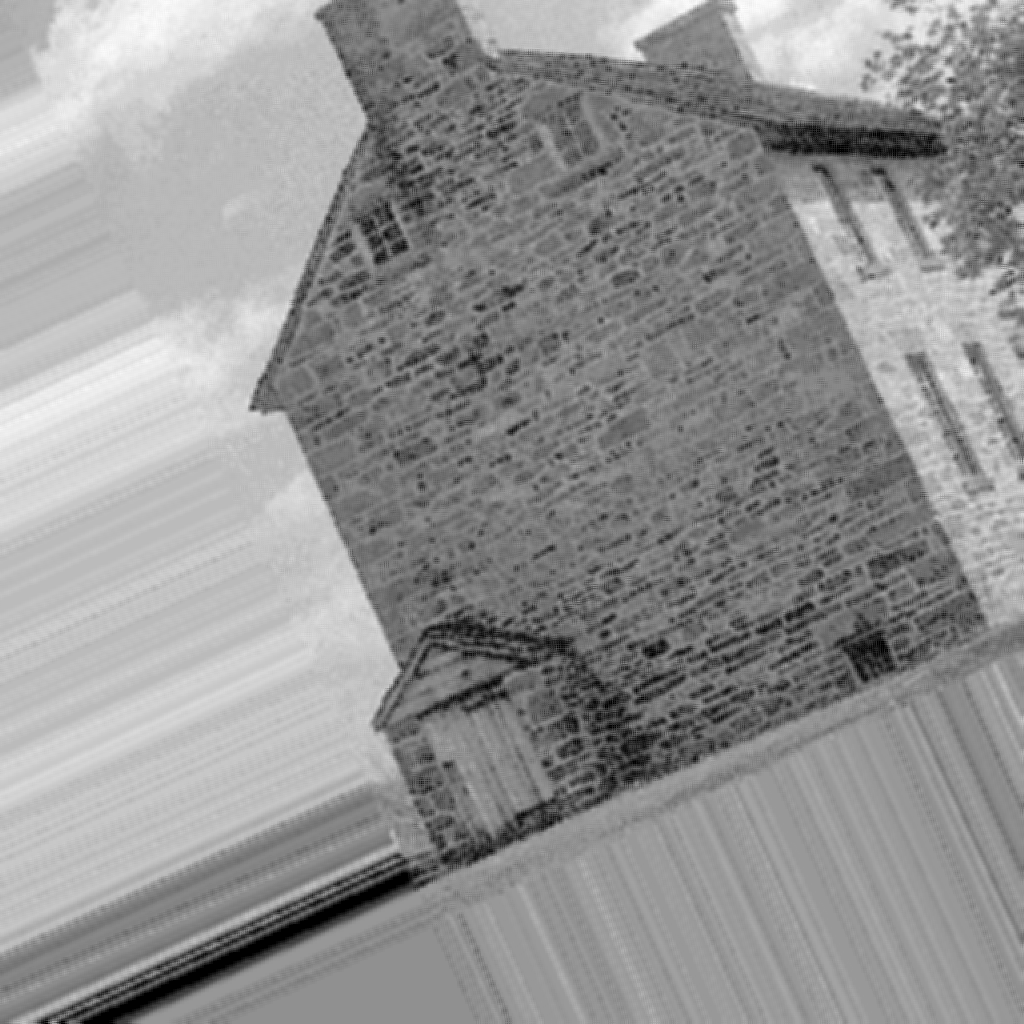
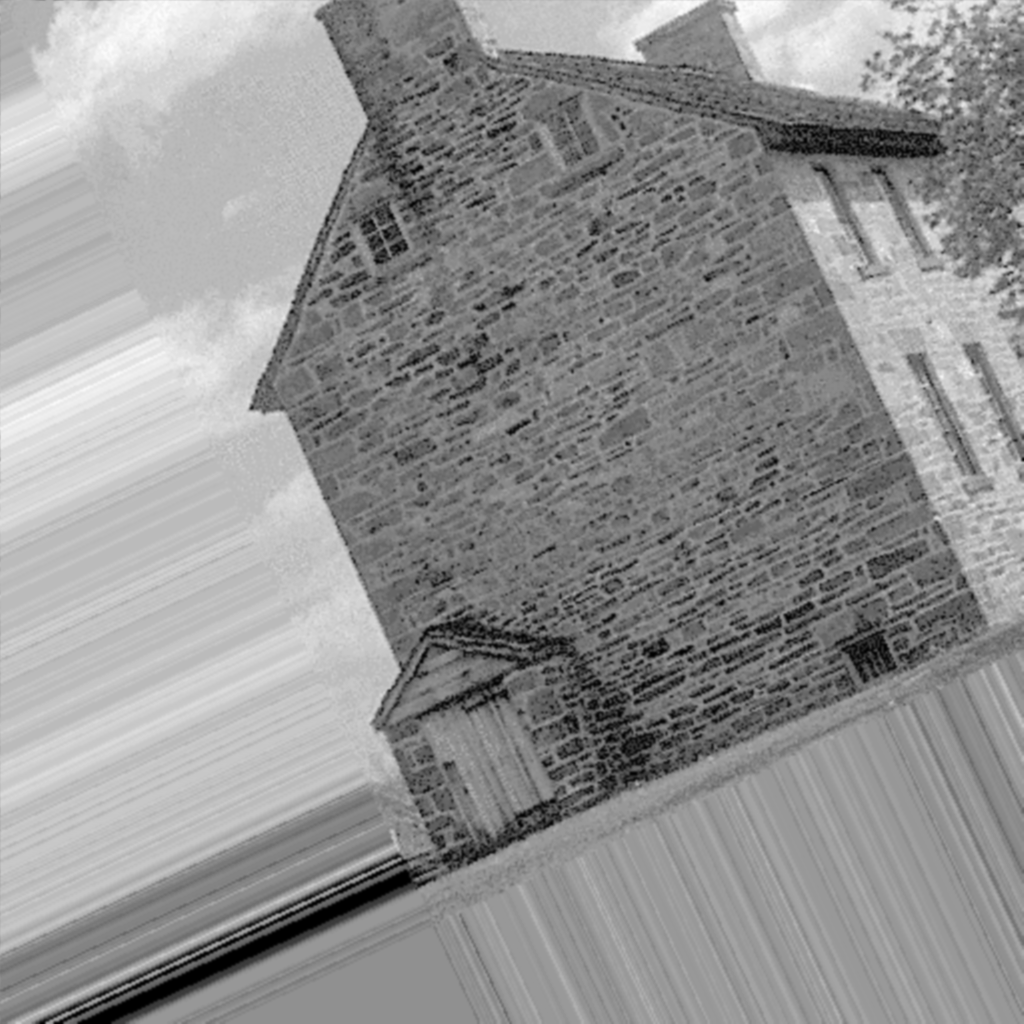
Bicubic fixed

diff --git a/T4/t4.py b/T4/t4.py
@@ -159,6 +159,27 @@ def bilinear_interpolation(image, out_file_path, angle, scale_factor_x, scale_fa
 #-----------------------------------------------------------------------------------------
 
 
+def calc_r(s):
+    v1 = m.pow(calc_p(s + 2), 3)
+    v2 = m.pow(calc_p(s + 1), 3)
+    v3 = m.pow(calc_p(s), 3)
+    v4 = m.pow(calc_p(s - 1), 3)
+
+    return (1 / 6) * (v1 - 4 * v2 + 6 * v3 - 4 * v4)
+
+
+#-----------------------------------------------------------------------------------------
+
+
+def calc_p(t):
+    if t > 0:
+        return t
+    return 0
+
+
+#-----------------------------------------------------------------------------------------
+
+
 def bicubic_interpolation(image, out_file_path, angle, scale_factor_x, scale_factor_y):
     rotated_image = rotate(image, angle)
 
@@ -171,24 +192,20 @@ def bicubic_interpolation(image, out_file_path, angle, scale_factor_x, scale_fac
         if m.isclose(float(scale_factor_x), float(1.0)) & m.isclose(float(scale_factor_y), float(1.0)):
             result_image[i,j] = rotated_image[i,j]
         else:
-            old_i = max(min(i / scale_factor_x, rotated_image.shape[0]), 0)
-            old_j = max(min(j / scale_factor_y, rotated_image.shape[1]), 0)
+            x = int(i / scale_factor_x)
+            y = int(j / scale_factor_y)
+            dx = (i / scale_factor_x) - x
+            dy = (j / scale_factor_y) - y
 
-            weighted_sum = 0
-            weight_sum = 0
+            sum_value = 0
 
-            for a in range(-1, 2):
-                for b in range(-1,2):
-                    if 0 <= round(old_i + a) < rotated_image.shape[0] and 0 <= round(old_j + b) < rotated_image.shape[1]:
-                        diff1_x = abs(i - round(old_i + a))
-                        diff1_y = abs(j - round(old_j + b))
-                        diff1 = m.sqrt(m.pow(diff1_x, 2) + m.pow(diff1_y, 2))
-                        weighted_sum = weighted_sum + diff1 * rotated_image[round(old_i + a), round(old_j + b)]
-                        weight_sum = weight_sum + diff1
+            for a in range(-1, 3):
+                for b in range(-1, 3):
+                    normalized_x = min(x + a, rotated_image.shape[0] - 1)
+                    normalized_y = min(y + b, rotated_image.shape[1] - 1)
+                    sum_value = sum_value + rotated_image[normalized_x, normalized_y] * calc_r(a - dx) * calc_r(dy - b)
 
-            if weight_sum > 0:
-                weighted_sum = weighted_sum / weight_sum
-                result_image[i,j] = weighted_sum
+            result_image[i, j] = sum_value
 
     print()
     print("Saving file", out_file_path, "...")
